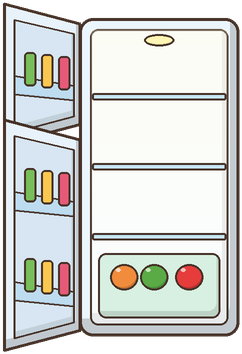
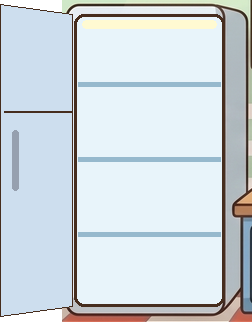
Mutfak: yeni resim, tezgaha ocak, yeni açık dolaplar, iki yeni tencere, tabure
Claude-Session: https://claude.ai/code/session_01FSkVF6b9FMUcpnurV8yuFZ

diff --git a/js/veri.js b/js/veri.js
@@ -97,6 +97,7 @@ window.OYUN_VERI = {
     kova: { resim: "cizimler/esya/kova.png", boy: 52, eylem: "kaz" },
     cicek: { resim: "cizimler/esya/cicek.png", boy: 70, eylem: "kokla" },
     tencere: { resim: "cizimler/esya/tencere.png", boy: 60, eylem: "karistir", ocak: true },
+    "tencere-gri": { resim: "cizimler/esya/tencere-gri.png", boy: 60, eylem: "karistir", ocak: true },
     tava: { resim: "cizimler/esya/tava.png", boy: 34, eylem: "karistir", ocak: true },
     bardak: { resim: "cizimler/esya/bardak.png", boy: 50, eylem: "ic", kirilir: true },
     kumanda: { resim: "cizimler/esya/kumanda.png", boy: 50, eylem: "kumanda" },
@@ -234,30 +235,33 @@ window.OYUN_VERI = {
       ad: "Mutfak", simge: "ev", ev: "ev1",
       resim: "cizimler/mekan/mutfak.jpg", zemin: ZEMIN, giris: GIRIS_SOL,
       kapilar: [
-        { ...KAPI_SOL, hedef: "oda", giris: GIRIS_SAG },
-        { ...KAPI_SAG, hedef: "banyo", giris: GIRIS_SOL },
+        { x: 48, y: 210, w: 110, h: 345, hedef: "oda", giris: GIRIS_SAG },
+        { x: 1130, y: 210, w: 112, h: 300, hedef: "banyo", giris: GIRIS_SOL },
       ],
       noktalar: [
         {
-          tur: "dolap", x: 225, y: 140, w: 160, h: 318,
-          resim: "cizimler/mekan/buzdolabi-acik.png", x0: 146, y0: 122,
+          tur: "dolap", x: 225, y: 173, w: 183, h: 314,
+          resim: "cizimler/mekan/buzdolabi-acik.png", x0: 160, y0: 170,
           raflar: [
-            { sablon: "sut", x: 270, y: 214 }, { sablon: "portakal-suyu", x: 335, y: 214 },
-            { sablon: "peynir", x: 265, y: 284 }, { sablon: "cilek", x: 312, y: 284 }, { sablon: "havuc", x: 350, y: 284 },
-            { sablon: "karpuz", x: 270, y: 354 }, { sablon: "dondurma", x: 340, y: 354 },
+            { sablon: "sut", x: 270, y: 251 }, { sablon: "portakal-suyu", x: 340, y: 251 },
+            { sablon: "peynir", x: 262, y: 326 }, { sablon: "cilek", x: 308, y: 326 }, { sablon: "havuc", x: 352, y: 326 },
+            { sablon: "karpuz", x: 275, y: 401 }, { sablon: "dondurma", x: 345, y: 401 },
           ],
         },
-        { tur: "musluk", x: 600, y: 290, w: 130, h: 70, su: { x: 690, y: 318, boy: 26 } },
-        { tur: "ocak", x: 750, y: 300, w: 140, h: 60, gozler: [{ x: 785, y: 345 }, { x: 850, y: 345 }] },
-        { tur: "tezgah", x: 390, y: 250, w: 530, h: 106, ust: 346 },
+        { tur: "musluk", x: 645, y: 318, w: 70, h: 50, su: { x: 690, y: 342, boy: 20 } },
+        { tur: "ocak", x: 755, y: 340, w: 140, h: 48, gozler: [{ x: 793, y: 372 }, { x: 857, y: 372 }] },
+        { tur: "tezgah", x: 395, y: 270, w: 523, h: 115, ust: 372 },
         // Tezgahın altındaki beş dolap. Hepsi aynı açık dolap resmini kullanır.
-        ...[["bardak", "tencere"], ["bardak", "tava"], ["kupa", "tencere"], ["bardak", "tava"], ["kupa", "tencere"]].map(([ust, alt], i) => ({
-          tur: "dolap", x: 410 + i * 100, y: 362, w: 92, h: 86,
-          resim: "cizimler/mekan/mutfak-dolap-acik.png", x0: 358 + i * 100, y0: 350,
-          raflar: [{ sablon: ust, x: 456 + i * 100, y: 401 }, { sablon: alt, x: 456 + i * 100, y: 444 }],
+        ...[["bardak", "tencere"], ["bardak", "tava"], ["kupa", "tencere-gri"], ["bardak", "tava"], ["kupa", "tencere"]].map(([ust, alt], i) => ({
+          tur: "dolap", x: 410 + i * 100, y: 393, w: 90, h: 82,
+          resim: "cizimler/mekan/mutfak-dolap-acik.png", x0: 358 + i * 100, y0: 385,
+          raflar: [{ sablon: ust, x: 455 + i * 100, y: 431 }, { sablon: alt, x: 455 + i * 100, y: 470 }],
         })),
+        // Sağ alttaki tabure: karakter üstüne bırakılınca oturur.
+        sandalye(1200, 662),
       ],
     },
+
     banyo: {
       ad: "Banyo", simge: "ev", ev: "ev1",
       resim: "cizimler/mekan/banyo.jpg", zemin: ZEMIN, giris: GIRIS_SOL,
